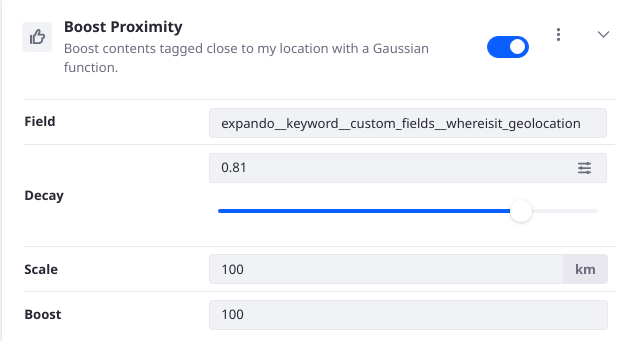
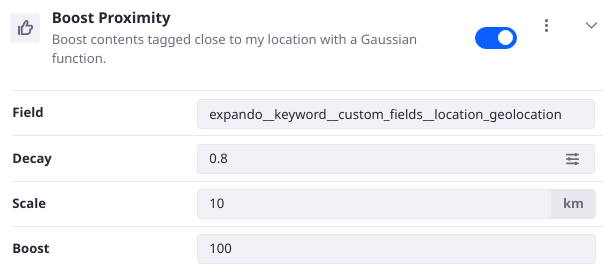
LRDOCS-9189 final edits to draft of "personalizing the search experience"

diff --git a/docs/dxp/latest/en/using-search/liferay-enterprise-search/search-experiences/personalizing-the-search-experience.md b/docs/dxp/latest/en/using-search/liferay-enterprise-search/search-experiences/personalizing-the-search-experience.md
@@ -3,7 +3,7 @@
 One of the premier use cases for Search Experiences and Search Blueprints in particular is to personalize Liferay's [search results](../../search-pages-and-widgets/search-results.md). With a personalized search experience, each User sees results depending on the particular details of his or her context. There are currently Elements for making your Blueprint react to the answers of contextual questions like
 
 * Where is the User?
-* What Roles does this User have?
+* What Roles does the User have?
 * What Sites is the User a member of?
 * What content does the User own?
 * Is the User a Guest?
@@ -22,7 +22,7 @@ Personalizing search results increases the chance that the User will find what's
 
 There are several Elements that are especially useful for personalization efforts:
 
-*Boost Proximity* is an Element that uses the [Ipstack](https://ipstack.com) service to boost search results closer to a User's location, as marked by a [geopoint](https://www.elastic.co/guide/en/elasticsearch/reference/7.x/geo-point.html) field in the document. The [example below](#building-a-blueprint-to-personalize-search-results) shows you how to set up the service before using the Boost Proximity Element.
+*Boost Proximity* is an Element that uses the [Ipstack](https://ipstack.com) service to boost search results closer to a User's location, as marked by a [geopoint](https://www.elastic.co/guide/en/elasticsearch/reference/7.x/geo-point.html) field in the document. The [example below](#building-a-blueprint-to-personalize-search-results) shows you how to set up the service and use the Boost Proximity Element.
 
 *Boost Contents for the Current Language* is an Element that boosts search results with a `defaultLanguageId` field matching the current session's language.
 
@@ -49,7 +49,6 @@ To demonstrate this use case, multiple configuration exercises must be completed
 - [Configure the service that geolocates the User's IP address, <https://ipstack.com>.](#configure-the-ipstack-service)
 - [Geolocate a Liferay Asset.](#configure-a-geolocated-asset)
 - [Create the Blueprint with the Element that communicates with the geolocation service.](#configure-a-geolocation-aware-blueprint)
-
 
 ### Configure the Ipstack Service
 
@@ -104,11 +103,11 @@ Now that you have the Ipstack service configured and search documents with geopo
 
 1. Use the [Query Builder](#using-the-query-builder) to add the Boost Proximity Element.
    - Set the field as `expando__keyword__custom_fields__location_geolocation`.
-   - Set the Decay to 0.99.
+   - Set the Decay to 0.8.
    - Set the Scale to 10 km.
    - Set the Boost value to 100.
 
-![Configure the Boost Proximity Element.](./personalizing-the-search-experience/images/02.png)
+   ![Configure the Boost Proximity Element.](./personalizing-the-search-experience/images/02.png)
 
 1. Test the Blueprint as you build and configure it. Click _Preview_.
 
